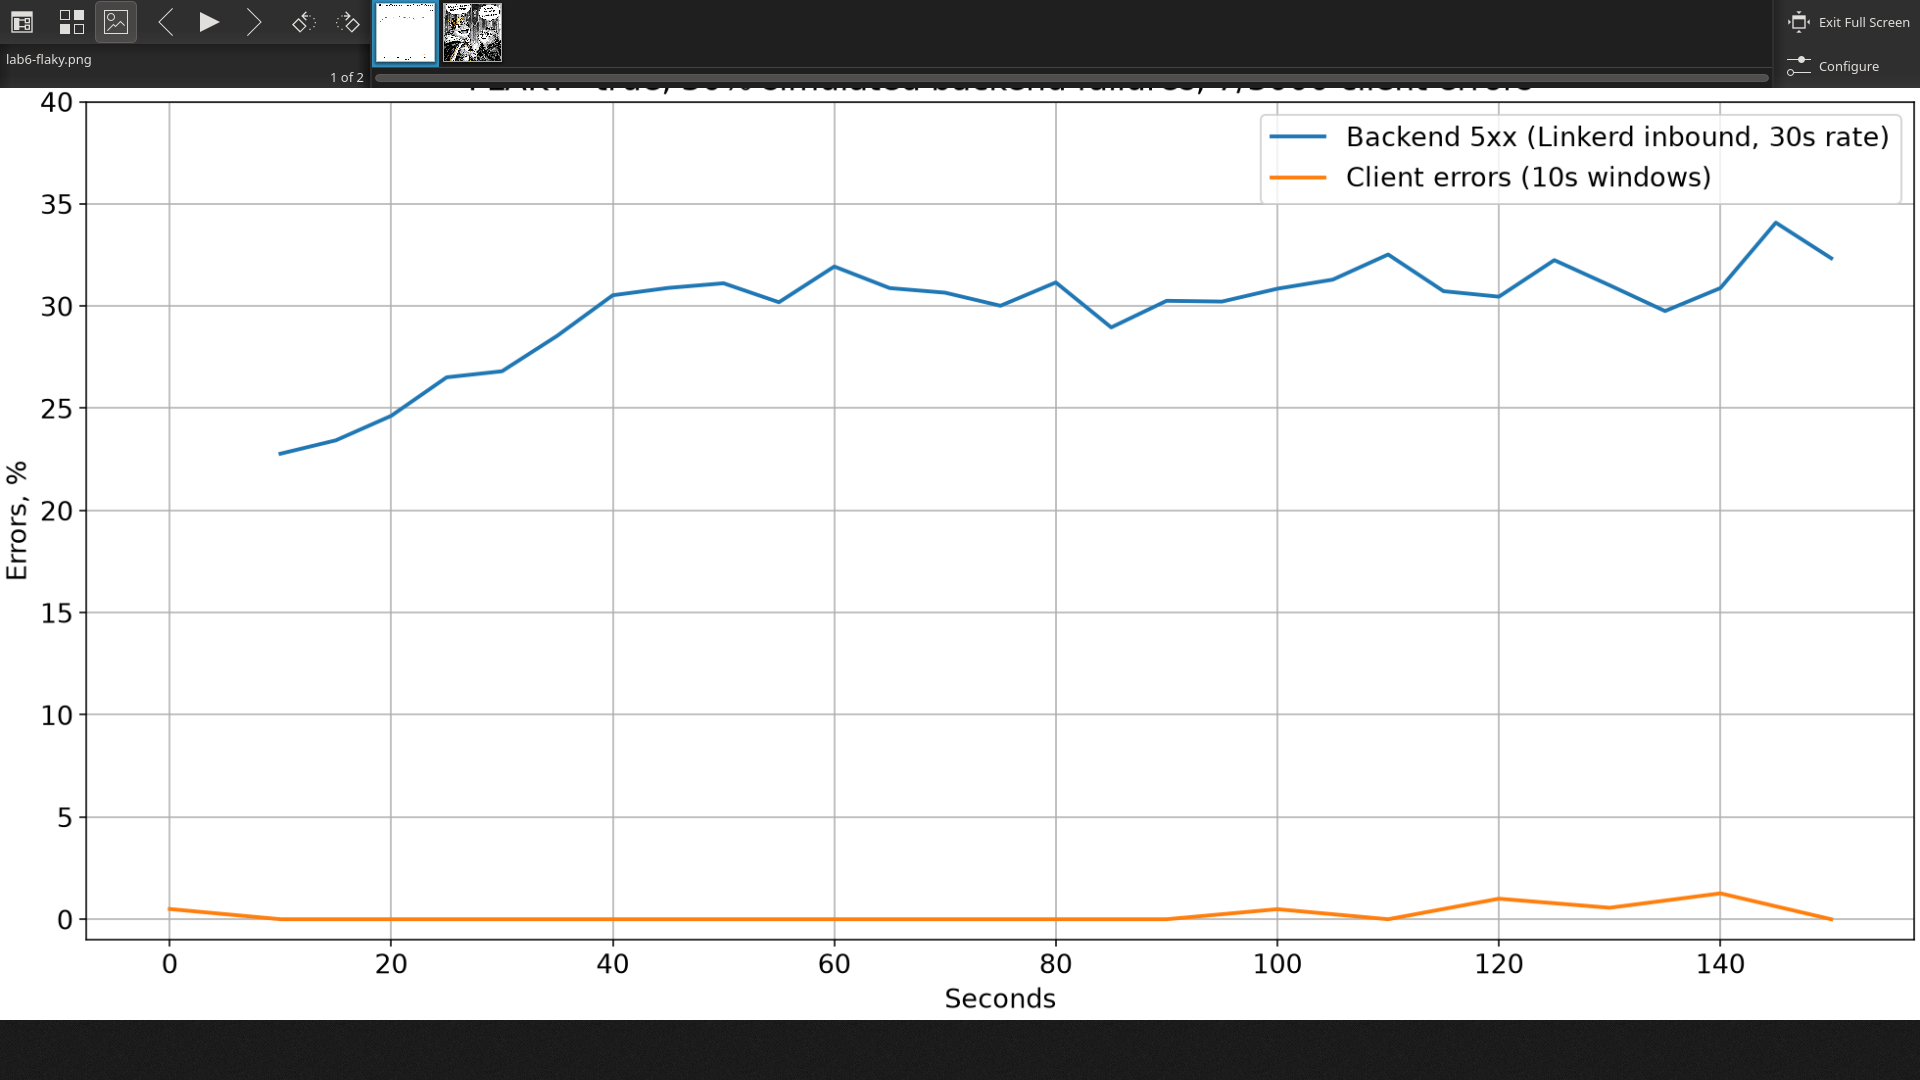
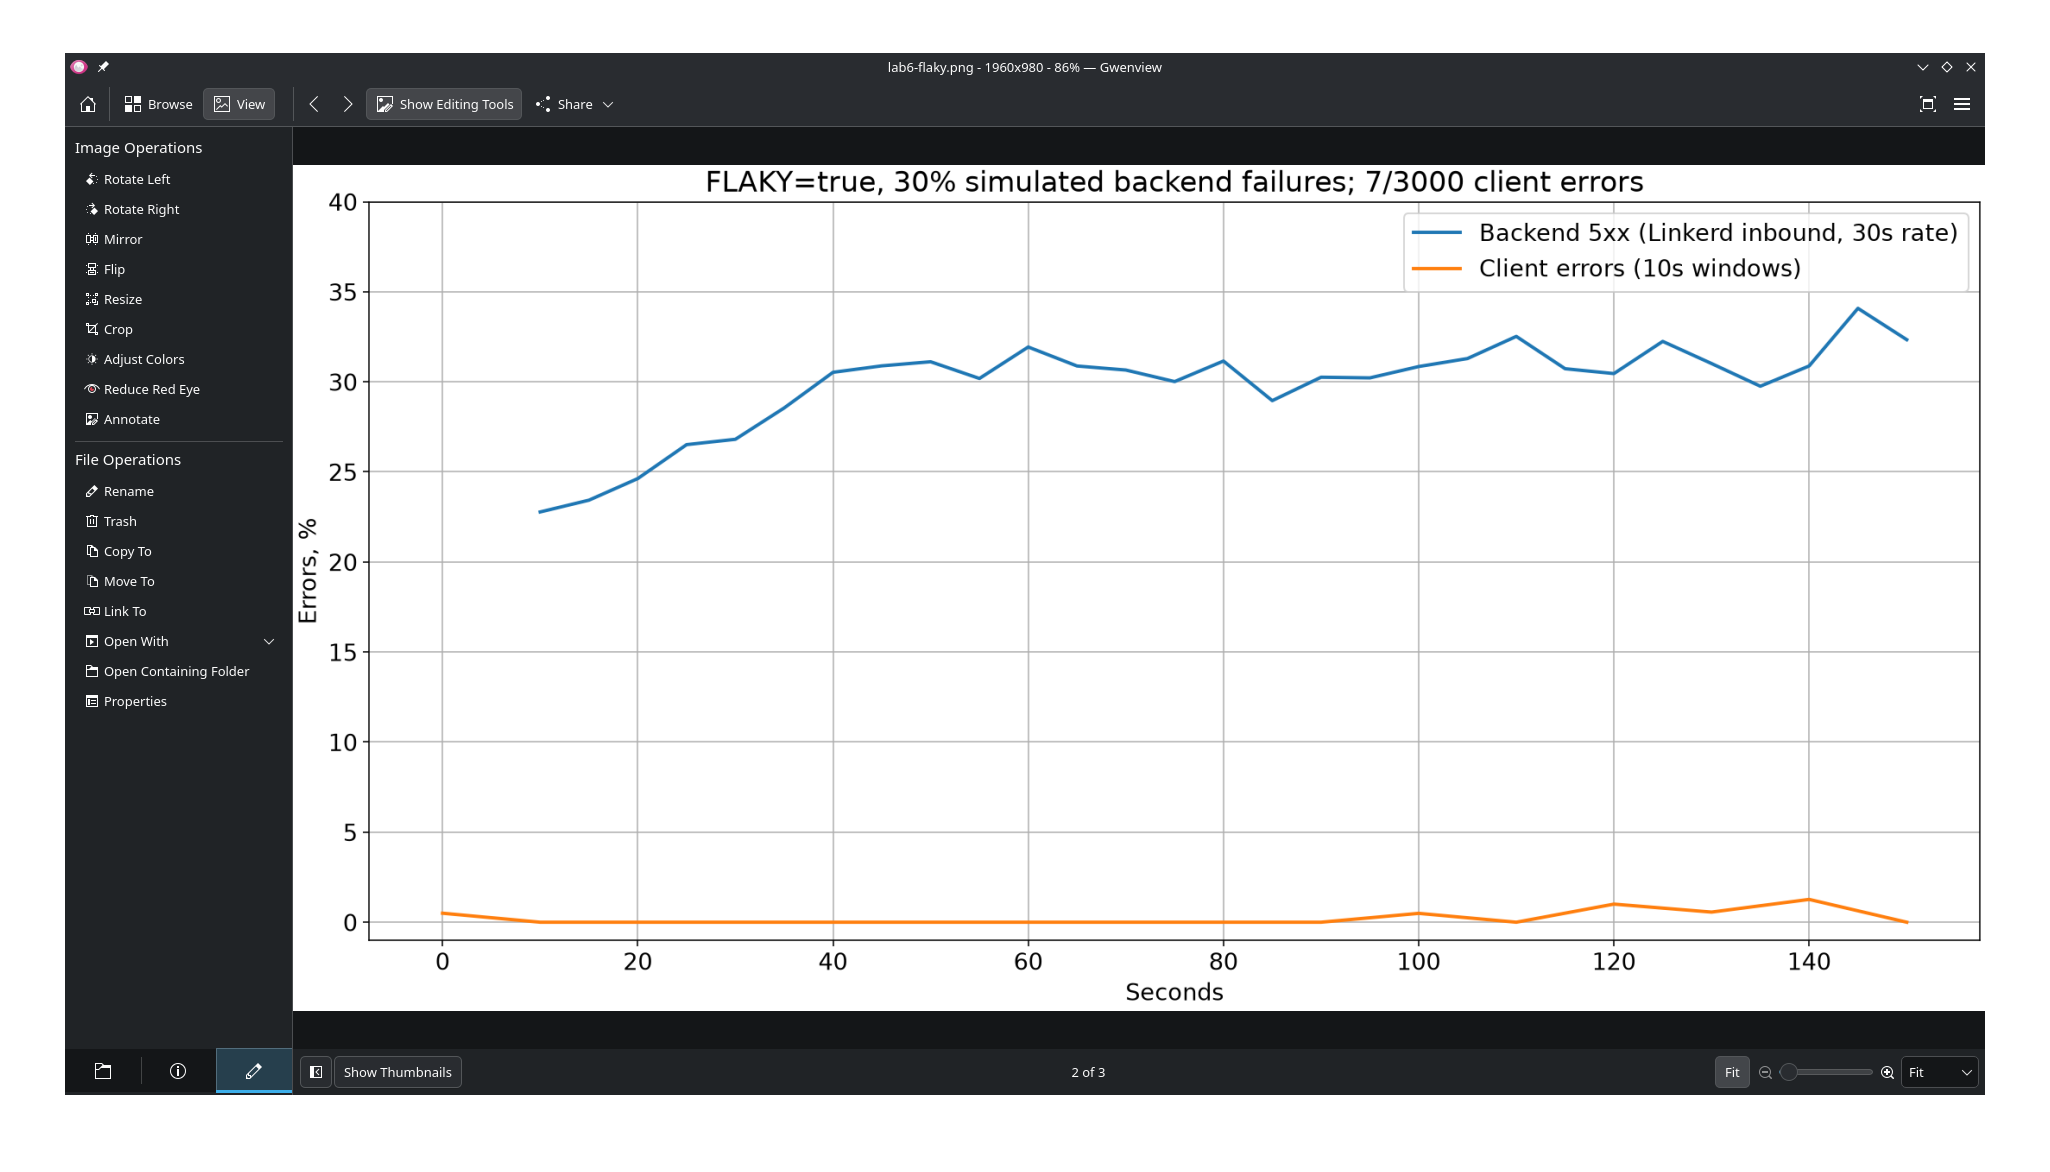
lab-6 stage 5: verify 90/10 routing with real version responses

diff --git a/lecture-6-service-mesh/scripts/versions.py b/lecture-6-service-mesh/scripts/versions.py
@@ -1,0 +1,12 @@
+"""Count /version responses, including a binomial uncertainty interval."""
+import collections,json,math,subprocess
+from pathlib import Path
+root=Path(__file__).resolve().parents[1]
+result=subprocess.check_output(['kubectl','-n','shop6','exec','-i','deploy/shop-client','-c','client','--','python','-','--seconds','50','--rate','40','--path','/version'],input=(root/'scripts/load.py').read_bytes())
+rows=[json.loads(x) for x in result.splitlines()]
+counts=collections.Counter(r['version'] for r in rows)
+n=len(rows);p=counts['v2']/n
+summary={'n':n,'counts':dict(counts),'v2_fraction':p,'expected_v2':.1,'approx_95pct_half_width':1.96*math.sqrt(.1*.9/n), 'errors':sum(r['code']!=200 for r in rows)}
+(root/'evidence/versions.json').write_text(json.dumps(summary,indent=2))
+print(json.dumps(summary,indent=2))
+assert summary['errors']==0 and abs(p-.1) < 4*math.sqrt(.1*.9/n)

diff --git a/lecture-6-service-mesh/REPORT.md b/lecture-6-service-mesh/REPORT.md
@@ -45,3 +45,11 @@
 Сработали именно **retries**: счётчики повторов и успешных повторов растут, `retry_overflow_total` равен нулю; circuit breaker/outlier detection отдельно не настраивал. Из одних только двух линий ошибок этого вывода сделать нельзя — поэтому проверил метрики исходящего прокси. При независимой вероятности ошибки 0,3 и пяти попытках ожидаемая вероятность окончательного отказа — 0,3⁵ ≈ 0,243%, что согласуется с измерением. Это не обещание того же результата при постоянном отказе backend.
 
 Повторы POST безопасны здесь лишь потому, что искусственный 500 возникает до INSERT. В реальной системе потеря ответа после commit требует idempotency key, иначе retry может создать второй заказ. mTLS также проверил запросом между двумя разными API Pod: в `mtls.txt` есть клиентская identity `shop-api-v1`, помимо identity нагрузочного клиента.
+
+## Две версии и traffic split
+
+Развернул две реплики v1 и одну v2, у каждой версии собственный Service. `shop-api` остаётся общим адресом; HTTPRoute ссылается на него как parent и задаёт два backendRefs с весами 90 и 10. Это L7-решение исходящего mesh proxy, число реплик не задаёт соотношение запросов.
+
+Проверил 2000 реальных `GET /version` через meshed client, без клиентских повторов. [Сводка распределения](evidence/versions.json) содержит счётчики ответов и статистическую погрешность: при n=2000 ожидаемое отклонение доли v2 на уровне 95% — около ±1,31 процентного пункта. Версии отличаются переменной VERSION в одном образе, возвращает её сам API.
+
+![Веса 90/10 и фактические ответы /version](screenshots/04-traffic-split.png)
